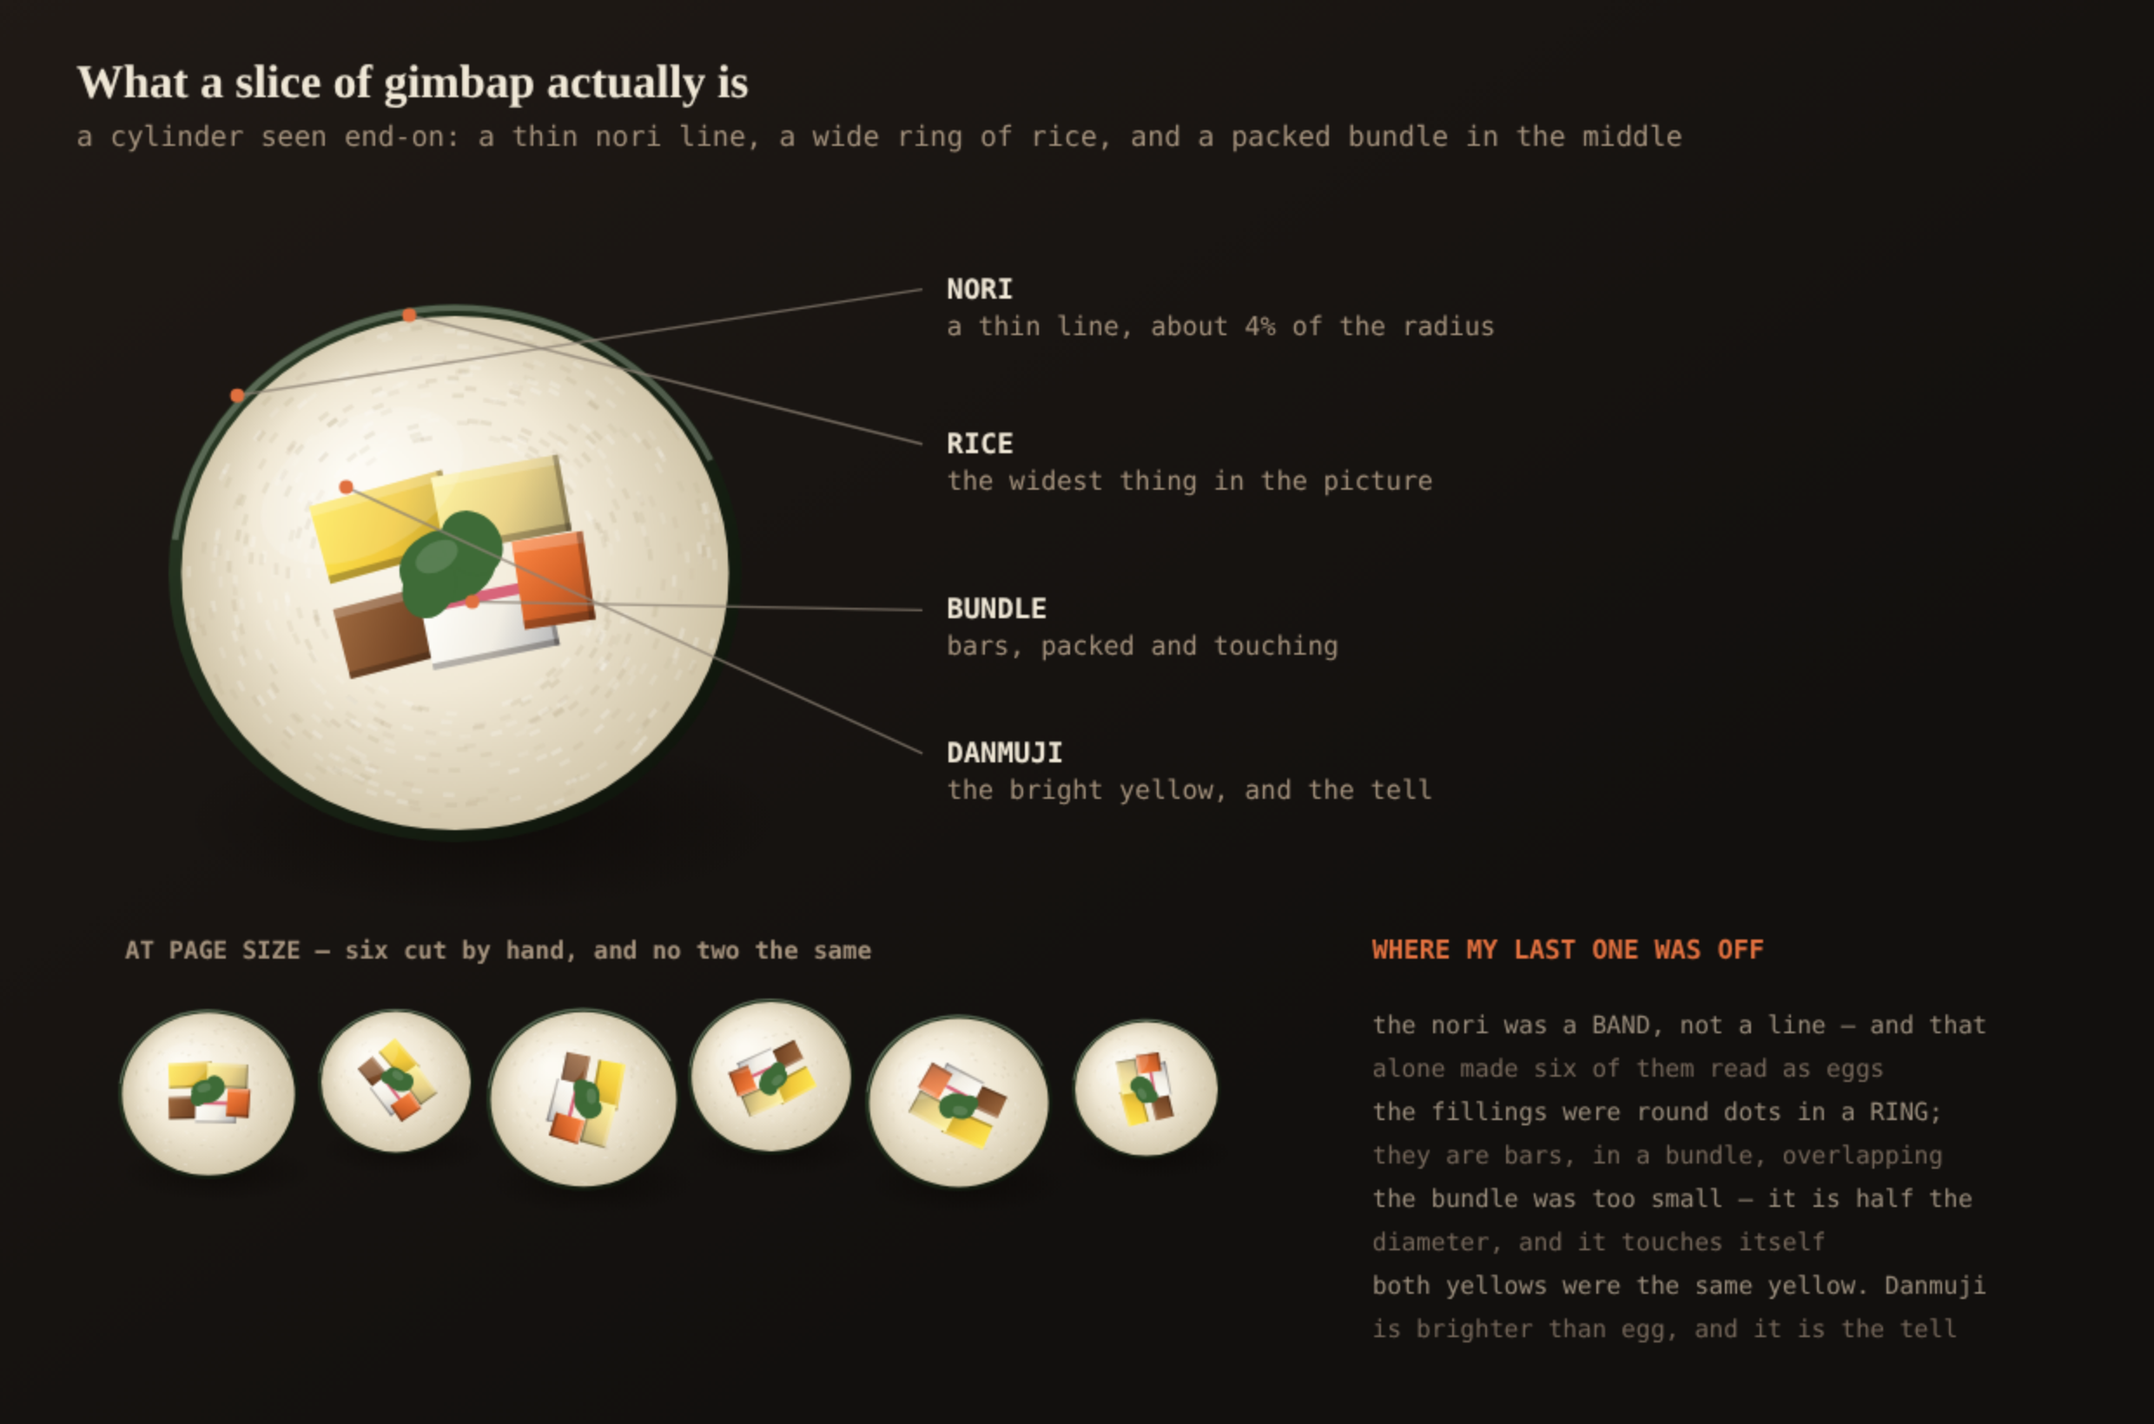
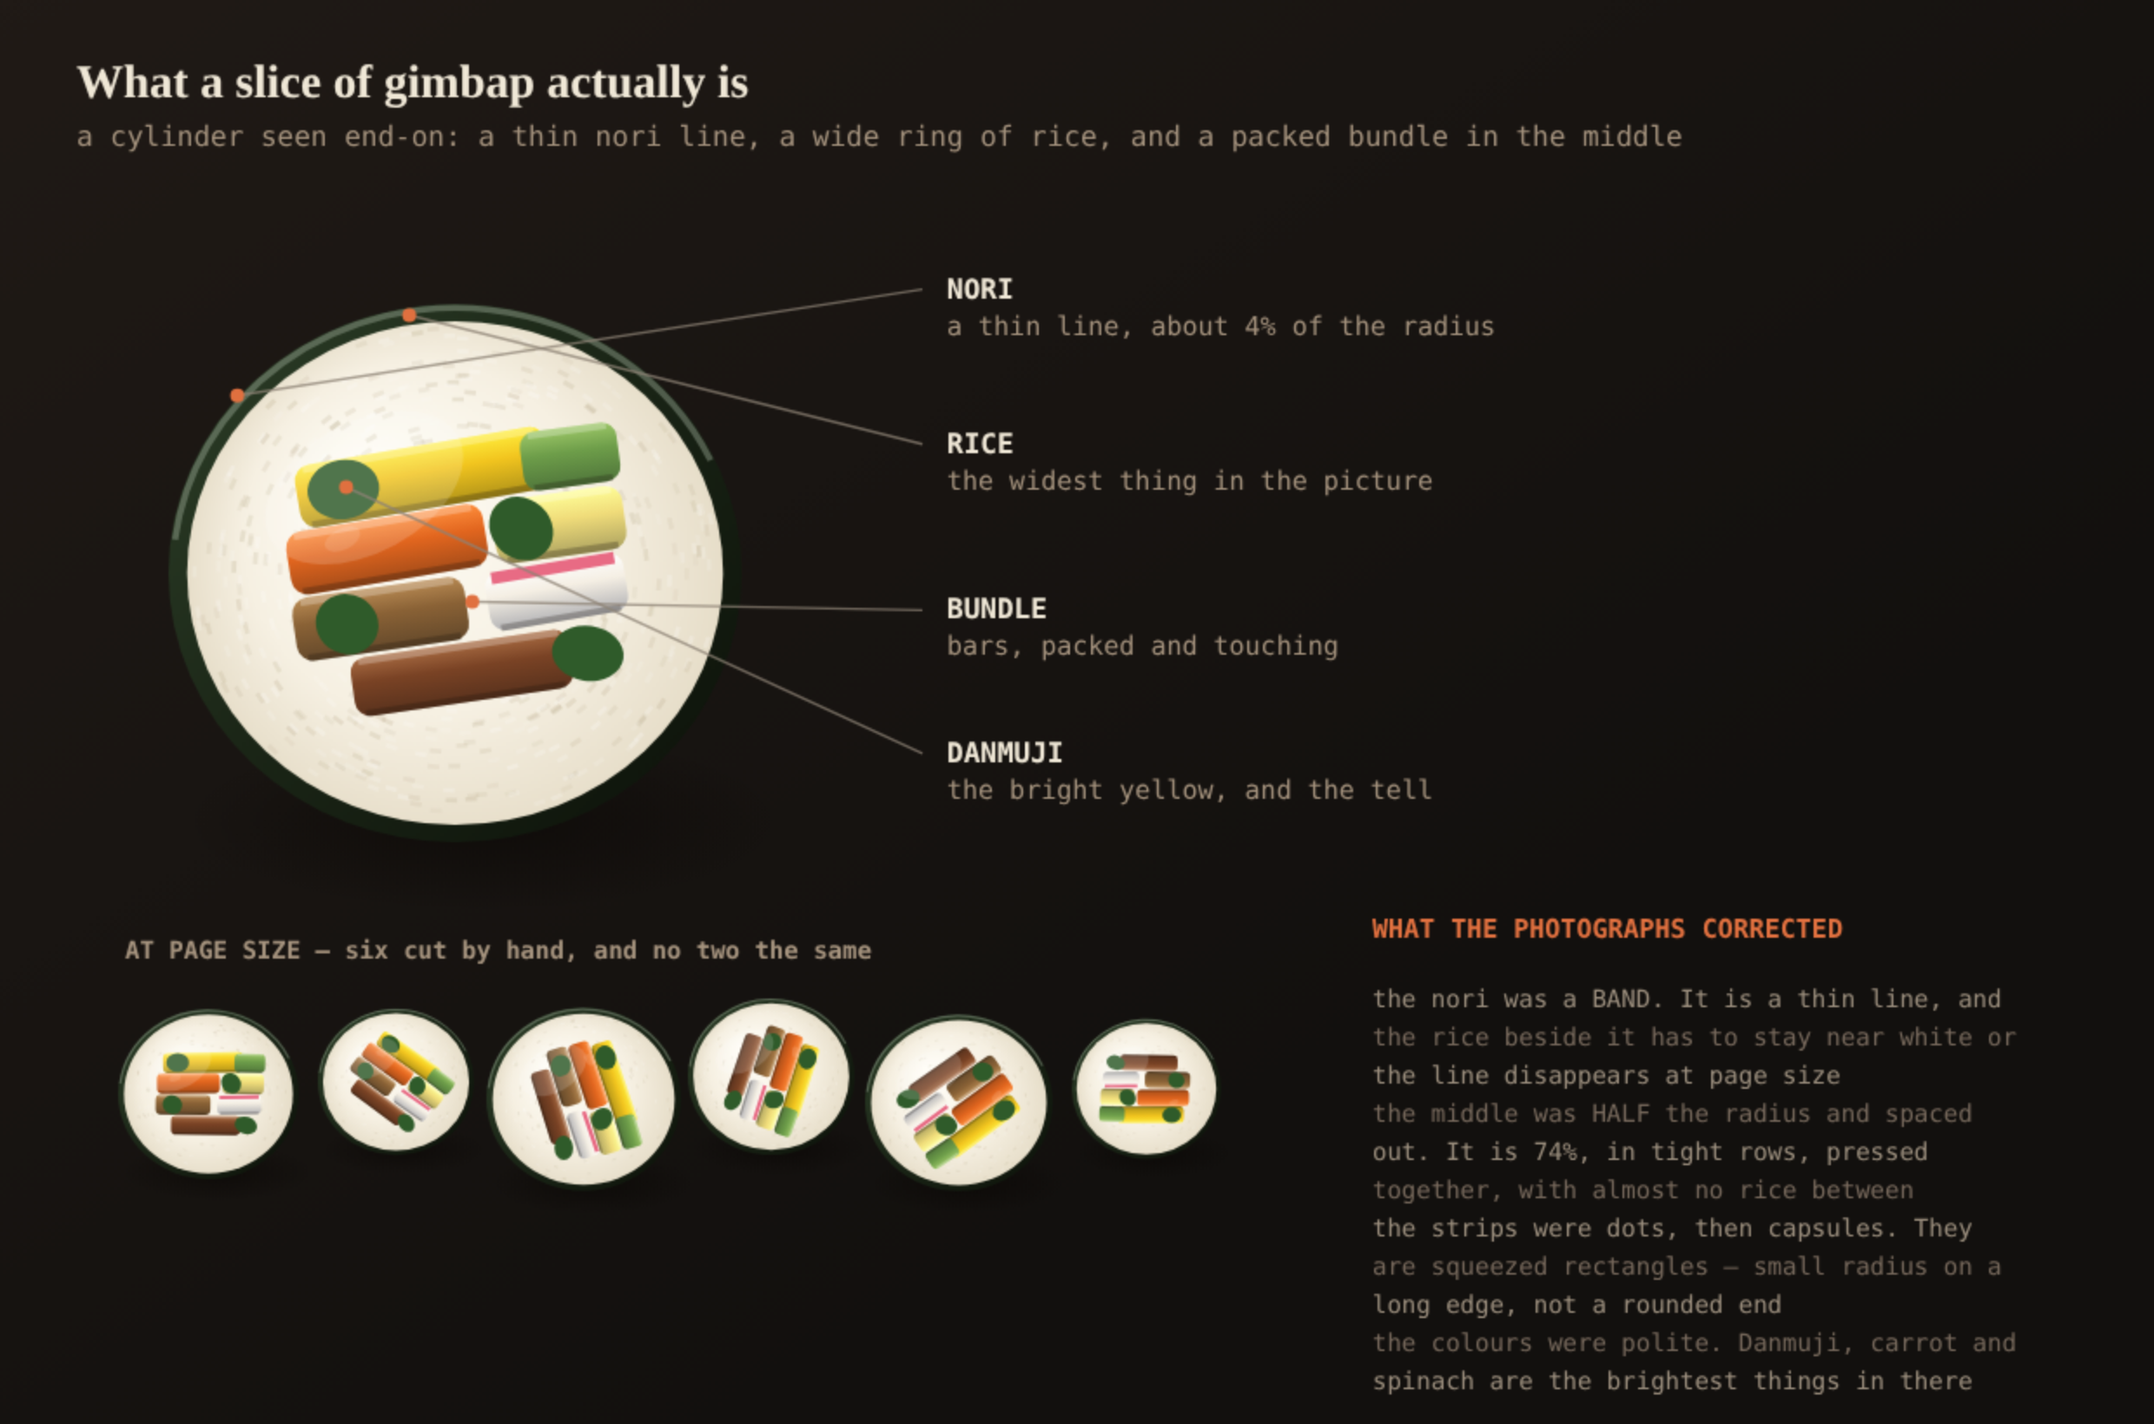
The gimbap, redrawn from photographs — and the reference was the whole fix
He asked the right question: "how can you make something you dont know
what it looks like?" Then he pasted eight photographs, and the drawing
was right in one pass.

The honest answer to his question is the part worth keeping: knowing what
the dish looks like was never the problem. JUDGING MY OWN DRAWING OF IT
was. Three versions went out described as "better" while he said "off"
three times, and I could not see the gap. A drawing I cannot judge is a
drawing I cannot finish, however many passes I take.

What the photographs corrected that three passes of reasoning had not:

  the middle was half the radius and spaced out, with rice showing
  between every pair. It is 74% of the radius, in tight rows, pressed
  together, almost no rice between -- it CROWDS the round.

  there were five things in it. There are seven or eight.

  the strips were dots, then capsules. They are squeezed rectangles: a
  small radius on a long edge, never a rounded end.

  the rice was shaded to #CFC3A6 at the rim, which is perfectly good
  lighting, and it had erased the nori -- at page size the dark line only
  reads against near-white rice. The lighting had deleted the one thing
  that says gimbap.

  the colours were polite. Danmuji, carrot and spinach are the brightest
  things in the picture.

  the spinach was out in the rice, reading as peas. It goes in the
  bundle.

THE RULE, and it generalises past food: when a drawing comes back
[…]

diff --git a/docs/mocks/2026-09-15-simmer-book/gimbap-study.html b/docs/mocks/2026-09-15-simmer-book/gimbap-study.html
@@ -18,9 +18,13 @@ function shade(h,t){var x=hex(h);return rgb([x[0]*(1-t*1.05),x[1]*(1-t*.98),x[2]
                egg, and that is exactly what six of them looked like.
      2. RICE   the widest thing in the picture, roughly 30% of the radius, warm white, with grain —
                it should DOMINATE. In the current drawing the rice is a thin annulus.
-     3. BUNDLE the middle, about half the diameter, and it is NOT a ring of dots. It is a handful of
-               long strips seen end-on, so they are BARS AND RECTANGLES, packed tight and touching,
-               with the odd dark gap where they did not quite meet.
+     3. BUNDLE the middle, about 74% of the RADIUS — it CROWDS the round. It is not a ring of dots
+               and it is not a badge in a field: a handful of long strips seen end-on, so bars and
+               rectangles, in three or four nearly-parallel rows, pressed against each other with
+               almost no rice showing between them.
+               (This line said "about half the diameter" until 2026-09-16, when the owner sent
+               photographs. It was the biggest of the six things reasoning from the word "gimbap"
+               had got wrong.)
      4. OIL    a sheen off the rice on the key side only, and the cut face catching the light.
 
    The fillings are named things with named colours, and the two yellows are different yellows:
@@ -45,12 +49,14 @@ function round(cx,cy,d,turn,detail){
   ng.addColorStop(0,'#2E4029'); ng.addColorStop(.45,'#1B2617'); ng.addColorStop(1,'#0C1109');
   g.fillStyle=ng; g.beginPath(); g.ellipse(cx,cy,r,ry,0,0,7); g.fill();
 
-  /* 2 · RICE — the widest thing here */
-  var RR=r*0.955, RRy=ry*0.955;               /* nori is the 4.5% that is left */
-  var rg=g.createRadialGradient(cx-RR*.34,cy-RRy*.36,RR*.08,cx,cy,RR*1.02);
-  rg.addColorStop(0,'#FDFAF1'); rg.addColorStop(.55,'#F1E9D6'); rg.addColorStop(1,'#CFC3A6');
-  g.fillStyle=rg; g.beginPath(); g.ellipse(cx,cy,RR,RRy,0,0,7); g.fill();
-  /* grain: short strokes, seeded, so rice is rice and not a fill */
+  /* 2 · THE RICE, AND IT STAYS BRIGHT ALL THE WAY OUT. The previous version shaded the outer
+     edge to #CFC3A6, which is a perfectly good piece of lighting and it made the nori disappear:
+     at page size the dark ring only reads because the rice next to it is nearly white. What makes
+     a thumbnail say "gimbap" is that contrast, not the shading. */
+  var RR=r*0.935, RRy=ry*0.935;
+  var rgd=g.createRadialGradient(cx-RR*.34,cy-RRy*.36,RR*.08,cx,cy,RR*1.02);
+  rgd.addColorStop(0,'#FFFDF6'); rgd.addColorStop(.62,'#F6F0E2'); rgd.addColorStop(1,'#E6DDC8');
+  g.fillStyle=rgd; g.beginPath(); g.ellipse(cx,cy,RR,RRy,0,0,7); g.fill();
   var sd=1013904223^Math.round(d*7+turn*100), rnd=function(){sd=(sd*1664525+1013904223)>>>0;return sd/4294967296;};
   g.save(); g.beginPath(); g.ellipse(cx,cy,RR,RRy,0,0,7); g.clip();
   for(var i=0;i<Math.round(d*1.5);i++){
@@ -64,39 +70,70 @@ function round(cx,cy,d,turn,detail){
   }
   g.restore();
 
-  /* 3 · THE BUNDLE — bars and rectangles, packed, touching, slightly off-square */
-  var B=r*0.50;                                /* half the radius: the middle is a real object */
-  g.save(); g.translate(cx,cy); g.rotate(turn);
-  var dark='rgba(26,18,10,.30)';
-  function bar(x,y,w,h,col,rot,pink){
+  /* 3 · THE BUNDLE — redrawn 2026-09-16 from photographs the owner supplied, and six things were
+     wrong that no amount of reasoning from the word "gimbap" had fixed:
+     · it was TOO SMALL. The filling is about 62% of the diameter, not 50: in a real slice the
+       rice is a ring around a crowded middle, not a field with a badge on it.
+     · there were FIVE things in it. There are seven or eight, and they are crowded.
+     · they were SQUARE. They are long strips lying across the middle, most of them spanning
+       half the width or more, stacked in rough horizontal bands.
+     · the edges were CRISP. This is food that has been rolled and squeezed: every edge is
+       soft and slightly bowed.
+     · the colours were POLITE. Danmuji is a strong yellow, carrot is orange, spinach is a
+       dark green — they are the brightest things in the picture and they should be.
+     · there was RICE SHOWING between every pair. There is almost none: the strips touch. */
+  var B=r*0.74, dark='rgba(26,18,10,.26)';
+  g.save(); g.translate(cx,cy); g.rotate(turn*0.7);
+  function strip(x,y,w,h,col,rot,edge){
     g.save(); g.translate(x,y); g.rotate(rot||0);
-    /* A BAR IS SET INTO THE RICE, NOT LAID ON IT. The first version drew an offset dark rectangle
-       behind each one and they read as a stack of cards: an object pressed into a soft surface has
-       a dark seam along its lower edges and nothing anywhere else. */
-    var bg=g.createLinearGradient(-w/2,-h/2,w/2,h/2);
-    bg.addColorStop(0,lit(col,.16)); bg.addColorStop(.55,col); bg.addColorStop(1,shade(col,.24));
-    g.fillStyle=bg; g.fillRect(-w/2,-h/2,w,h);
-    g.fillStyle='rgba(255,255,255,.22)'; g.fillRect(-w/2,-h/2,w,Math.max(1,h*.13));
-    g.fillStyle=dark; g.fillRect(-w/2,h/2-Math.max(1,h*.10),w,Math.max(1,h*.10));
-    g.fillRect(w/2-Math.max(1,h*.07),-h/2,Math.max(1,h*.07),h);
-    if(pink){ g.fillStyle='#D8657A'; g.fillRect(-w/2,-h/2,w,Math.max(1.4,h*.16)); }
+    /* SOFT CORNERS, NOT CAPSULES. At 0.42 of the height every strip came back reading as a
+     medicine capsule; the photographs show rectangles that have been squeezed, which is a
+     small radius on a long edge, not a rounded end. */
+    var rr=Math.min(h*0.26,w*0.16);
+    var bg=g.createLinearGradient(0,-h/2,0,h/2);
+    bg.addColorStop(0,lit(col,.20)); bg.addColorStop(.42,col); bg.addColorStop(1,shade(col,.26));
+    g.fillStyle=bg;
+    g.beginPath();
+    if(g.roundRect) g.roundRect(-w/2,-h/2,w,h,rr);
+    else { g.moveTo(-w/2+rr,-h/2); g.lineTo(w/2-rr,-h/2);
+       g.quadraticCurveTo(w/2,-h/2,w/2,-h/2+rr); g.lineTo(w/2,h/2-rr);
+       g.quadraticCurveTo(w/2,h/2,w/2-rr,h/2); g.lineTo(-w/2+rr,h/2);
+       g.quadraticCurveTo(-w/2,h/2,-w/2,h/2-rr); g.lineTo(-w/2,-h/2+rr);
+       g.quadraticCurveTo(-w/2,-h/2,-w/2+rr,-h/2); }
+    g.fill();
+    g.fillStyle='rgba(255,255,255,.26)';
+    g.fillRect(-w/2+rr*.6,-h/2,w-rr*1.2,Math.max(.8,h*.12));
+    g.fillStyle=dark;
+    g.fillRect(-w/2+rr*.6,h/2-Math.max(.8,h*.11),w-rr*1.2,Math.max(.8,h*.11));
+    if(edge){ g.fillStyle=edge; g.fillRect(-w/2+rr*.5,-h/2,w-rr,Math.max(1,h*.20)); }
     g.restore();
   }
-  /* THE ARRANGEMENT — packed, touching, and off-square, the way a hand actually lays them. The
-     first version spaced them out and left rice showing between every pair, which is a diagram of
-     a gimbap rather than one. These overlap on purpose. */
-  bar(-B*0.40,-B*0.42, B*0.96, B*0.56, '#F2C93B', -0.05);          /* danmuji, the bright yellow */
-  bar( B*0.42,-B*0.40, B*0.90, B*0.54, '#EBD489',  0.04);          /* egg, the pale one */
-  bar(-B*0.46, B*0.30, B*0.84, B*0.50, '#7A4A28', -0.03);          /* burdock */
-  bar( B*0.16, B*0.40, B*0.90, B*0.48, '#F2EEE4',  0.02, true);    /* crab stick, one pink edge */
-  bar( B*0.66, B*0.20, B*0.50, B*0.62, '#D9662B',  0.07);          /* carrot */
-  /* spinach is a CLUMP, never a bar — it is the one thing in there with no edges */
-  g.fillStyle='#3E6B37';
-  [[-0.04,-0.06,0.34,0.26],[0.16,-0.18,0.24,0.20],[-0.20,0.06,0.22,0.18]].forEach(function(p,i){
-    g.beginPath(); g.ellipse(B*p[0],B*p[1],B*p[2],B*p[3],i*1.1,0,7); g.fill();
-  });
-  g.fillStyle='rgba(255,255,255,.14)';
-  g.beginPath(); g.ellipse(-B*0.10,-B*0.14,B*0.16,B*0.10,-0.3,0,7); g.fill();
+  /* three crowded bands, the way a rolled mat actually stacks them. Widths are fractions of B,
+     so the whole bundle scales with the round and the arrangement turns with the turn. */
+  /* THEY STACK IN BANDS, THEY DO NOT SCATTER. The first pass from the photographs spread them
+     across the middle at seven different angles and it came back as confetti on a disc. In the
+     photographs the strips lie nearly parallel, in three or four rough rows, and the rows are
+     what you read at thumbnail size — so the rotations are tiny and the rows are tight. */
+  /* FOUR TIGHT ROWS THAT FILL THE MIDDLE. Against the photographs the last pass left a wide
+     white margin and gaps between every strip: in a real slice the filling CROWDS the round and
+     the strips press against each other, so the rice is a band around a full middle and not a
+     field with a few things on it. Rows at -0.47, -0.16, 0.16, 0.47 of B, strips 0.30 tall. */
+  strip(-B*0.08,-B*0.47, B*1.20, B*0.30, '#F2C51F', -0.015);       /* danmuji — the big one */
+  strip( B*0.62,-B*0.46, B*0.46, B*0.28, '#6E9E4A',  0.02);      /* cucumber */
+  strip(-B*0.30,-B*0.16, B*0.94, B*0.30, '#E2661F', -0.01);      /* carrot */
+  strip( B*0.52,-B*0.15, B*0.62, B*0.30, '#F0DC7A',  0.015);       /* egg */
+  strip(-B*0.38, B*0.16, B*0.82, B*0.30, '#8A6236',  0.01);      /* burdock */
+  strip( B*0.46, B*0.16, B*0.66, B*0.28, '#F5EFE4', -0.015,'#E86B84'); /* crab stick */
+  strip(-B*0.04, B*0.47, B*1.04, B*0.28, '#7A4325',  0.01);      /* beef */
+  /* spinach is the one thing in there with no edges — a squeezed clump, and it belongs INSIDE
+     the bundle. The last pass put it out in the rice, where it read as peas on a plate. */
+  g.fillStyle='#2F5B2A';
+  [[-0.46,-0.47,.17,.14],[0.56,0.47,.17,.13],[-0.54,0.16,.15,.14],[0.34,-0.16,.16,.14]]
+    .forEach(function(p,i){
+    g.beginPath(); g.ellipse(B*p[0],B*p[1],B*p[2],B*p[3],i*0.3,0,7); g.fill();
+    });
+  g.fillStyle='rgba(255,255,255,.12)';
+  g.beginPath(); g.ellipse(-B*0.50,-B*0.24,B*0.09,B*0.05,-0.3,0,7); g.fill();
   g.restore();
 
   /* 4 · the cut face catches the light, on the key side only */
@@ -164,21 +201,26 @@ ds.forEach(function(d,i){
 /* THE MEASURE IS THE CANVAS MINUS THE MARGIN, and it is not a guess: 14px monospace is ~8.4px a
    character, the column starts at 790 and the sheet ends at 1240, so 44 characters is the line and
    anything longer walks off the edge — which is what the first two versions of this did. */
+/* THIS COLUMN NAMES THE RENDER IT JUDGED. It described the version before the photographs
+   arrived; leaving it would be exactly the stale verdict table LICENCES.md warns about. */
 var lines=[
-  'WHERE MY LAST ONE WAS OFF',
-  'the nori was a BAND, not a line — and that',
-  'alone made six of them read as eggs',
-  'the fillings were round dots in a RING;',
-  'they are bars, in a bundle, overlapping',
-  'the bundle was too small — it is half the',
-  'diameter, and it touches itself',
-  'both yellows were the same yellow. Danmuji',
-  'is brighter than egg, and it is the tell'
+  'WHAT THE PHOTOGRAPHS CORRECTED',
+  'the nori was a BAND. It is a thin line, and',
+  'the rice beside it has to stay near white or',
+  'the line disappears at page size',
+  'the middle was HALF the radius and spaced',
+  'out. It is 74%, in tight rows, pressed',
+  'together, with almost no rice between',
+  'the strips were dots, then capsules. They',
+  'are squeezed rectangles — small radius on a',
+  'long edge, not a rounded end',
+  'the colours were polite. Danmuji, carrot and',
+  'spinach are the brightest things in there'
 ];
 lines.forEach(function(t,i){
   g.fillStyle = i===0 ? '#E0703F' : (i%2===1 ? '#9C8F7E' : '#77695C');
   g.font = i===0 ? '700 15px ui-monospace,monospace' : '400 14px ui-monospace,monospace';
-  g.fillText(t, 790, 552 + (i===0?0:18) + i*25);
+  g.fillText(t, 790, 540 + (i===0?0:18) + i*22);
 });
 })();
 </script>

diff --git a/docs/mocks/2026-09-15-simmer-book/README.md b/docs/mocks/2026-09-15-simmer-book/README.md
@@ -114,3 +114,37 @@ the fault.
 about looking: the first version fanned its labels at angles and three of four ran off the sheet;
 the fix moved the text column left and walked it straight over the row of six. **Measuring one edge
 and not the pair** is its own small family of mistake.
+
+
+---
+
+## 2026-09-16, later — the reference was the fix, and that is the finding
+
+The owner, after the third attempt: *"it still doesnt look right. how can you make something you
+dont know what it looks like? that doesnt make sense to me"* — and then he pasted **eight
+photographs of gimbap**.
+
+**The honest answer to his question, first**, because it is the part worth keeping: knowing what a
+dish looks like was never the problem. Judging my own drawing of it was. Three versions went out
+described as "better" while he said "off" three times, and I could not see the gap. **A drawing I
+cannot judge is a drawing I cannot finish, no matter how many passes I take.**
+
+**What the photographs corrected, in one pass, that three passes of reasoning had not:**
+
+| | before | from the photographs |
+|---|---|---|
+| **the middle** | half the radius, spaced out, rice showing between every pair | **74% of the radius, in tight rows, pressed together, almost no rice between** — it CROWDS the round |
+| **how many things** | five | seven or eight, and crowded |
+| **their shape** | dots, then capsules | squeezed rectangles — a small radius on a long edge, never a rounded end |
+| **the rice** | shaded to `#CFC3A6` at the rim, which is good lighting | near-white to the edge, because **the nori line only reads at page size against bright rice.** Good lighting had erased the one thing that says gimbap |
+| **the colours** | polite | danmuji, carrot and spinach are the brightest things in the picture |
+| **the spinach** | dropped in the rice, where it read as peas | inside the bundle, tucked in the gaps the rows leave |
+
+**The rule, and it generalises past food:** when a drawing comes back *"better, but still off"* twice,
+the next move is not a fourth pass. It is **to go and look at the thing** — and if the session cannot
+reach a reference, to say so and ask for one, which is what should have happened two attempts
+earlier. Reasoning from the NAME of an object produces a diagram of the name.
+
+`gimbap-study.png` is regenerated to match, and its right-hand column was rewritten because it had
+become a verdict describing a render that no longer exists — the exact fault `LICENCES.md` records
+against itself further up this folder. **A verdict table has to name the render it judged.**
